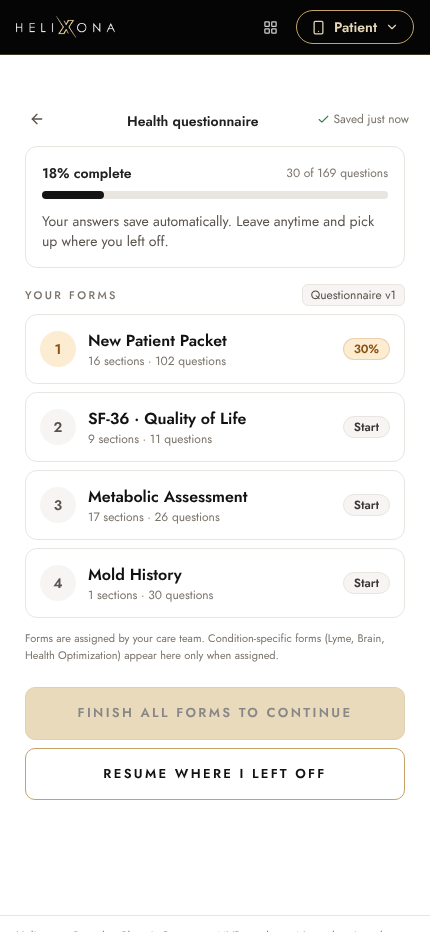
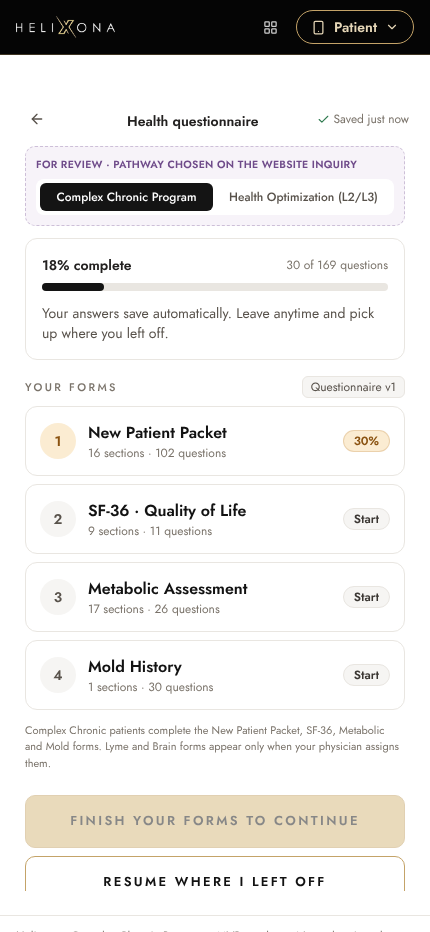
Two intake pathways: Complex Chronic and Health Optimization (L2/L3) with their own forms
Claude-Session: https://claude.ai/code/session_01XYaKrUbBD9snGiT4u57yqi

Changed region(s): [[0.0605, 0.1556, 0.9674, 0.9646], [0.1209, 0.6223, 0.1512, 0.6534]]

diff --git a/src/modules/intake/patient/Questionnaire.tsx b/src/modules/intake/patient/Questionnaire.tsx
@@ -3,7 +3,7 @@ import { Link, useNavigate } from 'react-router-dom'
 import { ArrowLeft, Check, Cloud, Plus, Trash2 } from 'lucide-react'
 import { PhoneFrame, PatientTopBar } from '../../../components/PhoneFrame'
 import { Choice, Field, Pill, VersionTag } from '../../../components/ui'
-import { assignedFormIds, forms, questionnaireMeta, sampleAnswers, type Form, type Q, type Sec } from '../../../mock/questionnaire'
+import { assignedByPathway, forms, getPathway, pathwayLabel, questionnaireMeta, sampleAnswers, setPathway, type Form, type Pathway, type Q, type Sec } from '../../../mock/questionnaire'
 
 type Answers = Record<string, unknown>
 
@@ -21,9 +21,12 @@ const visible = (sec: Sec, q: Q, a: Answers) => {
 
 export default function Questionnaire() {
   const nav = useNavigate()
-  const assigned = useMemo(() => assignedFormIds.map((id) => forms.find((f) => f.id === id)!), [])
+  const [pathway, setPathwayState] = useState<Pathway>(getPathway())
+  const assignment = assignedByPathway[pathway]
+  const assigned = useMemo(() => assignment.map((a) => forms.find((f) => f.id === a.formId)!), [assignment])
   const [view, setView] = useState<'forms' | 'sections' | 'section'>('forms')
   const [form, setForm] = useState<Form>(assigned[0])
+  const switchPathway = (p: Pathway) => { setPathway(p); setPathwayState(p); setForm(forms.find((f) => f.id === assignedByPathway[p][0].formId)!); setSIdx(0); setView('forms') }
   const [sIdx, setSIdx] = useState(0)
   const [answers, setAnswers] = useState<Answers>(() => ({ ...sampleAnswers }))
   const [saved, setSaved] = useState<'saved' | 'saving'>('saved')
@@ -33,15 +36,21 @@ export default function Questionnaire() {
   const set = (id: string, v: unknown) => setAnswers((a) => ({ ...a, [id]: v }))
   const secState = (s: Sec) => { const qs = s.questions.filter((q) => visible(s, q, answers)); const n = qs.filter((q) => answered(q, answers[q.id])).length; return n === 0 ? 'not started' : n === qs.length ? 'complete' : 'partial' }
   const formProgress = (f: Form) => { const qs = f.sections.flatMap((s) => s.questions.filter((q) => visible(s, q, answers))); return Math.round((qs.filter((q) => answered(q, answers[q.id])).length / qs.length) * 100) }
-  const total = assigned.flatMap((f) => f.sections.flatMap((s) => s.questions)).length
-  const done = assigned.flatMap((f) => f.sections.flatMap((s) => s.questions)).filter((q) => answered(q, answers[q.id])).length
+  const nowForms = assigned.filter((_, i) => !assignment[i].when)
+  const total = nowForms.flatMap((f) => f.sections.flatMap((s) => s.questions)).length
+  const done = nowForms.flatMap((f) => f.sections.flatMap((s) => s.questions)).filter((q) => answered(q, answers[q.id])).length
   const pct = Math.round((done / total) * 100)
+  const pctNow = pct
   const SaveState = <span className="inline-flex items-center gap-1 text-xs text-sand-500">{saved === 'saved' ? <><Check size={13} className="text-ok-600" /> Saved just now</> : <><Cloud size={13} className="animate-pulse" /> Saving…</>}</span>
 
   if (view === 'forms') return (
     <PhoneFrame>
       <PatientTopBar title="Health questionnaire" back={<Link to="/patient/home" className="btn-ghost px-2 py-1 text-sm"><ArrowLeft size={16} /></Link>} right={SaveState} />
       <div className="px-5 pb-8">
+        <div className="mb-3 rounded-xl border border-dashed border-plum-600/30 bg-plum-100/40 p-2.5">
+          <div className="text-[10.5px] font-semibold uppercase tracking-wide text-plum-600">For review · pathway chosen on the website inquiry</div>
+          <div className="mt-1.5 flex gap-1 rounded-lg bg-white p-1 text-xs font-medium">{(['chronic', 'optimization'] as Pathway[]).map((p) => <button key={p} onClick={() => switchPathway(p)} className={`flex-1 rounded-md py-1.5 ${pathway === p ? 'bg-teal-600 text-white' : 'text-sand-600'}`}>{pathwayLabel[p]}</button>)}</div>
+        </div>
         <div className="card p-4">
           <div className="flex items-center justify-between"><span className="text-sm font-semibold text-sand-800">{pct}% complete</span><span className="text-xs text-sand-500">{done} of {total} questions</span></div>
           <div className="mt-2 h-2 rounded-full bg-sand-200"><div className="h-2 rounded-full bg-teal-600 transition-all" style={{ width: `${pct}%` }} /></div>
@@ -49,16 +58,16 @@ export default function Questionnaire() {
         </div>
         <div className="mt-4 flex items-center justify-between"><span className="eyebrow">Your forms</span><VersionTag>Questionnaire v{questionnaireMeta.version}</VersionTag></div>
         <ul className="mt-2 space-y-2">
-          {assigned.map((f, i) => { const p = formProgress(f); return (
-            <li key={f.id}><button onClick={() => { setForm(f); setView('sections') }} className="card flex w-full items-center gap-3 p-3.5 text-left hover:border-teal-300">
+          {assigned.map((f, i) => { const p = formProgress(f); const later = assignment[i].when; return (
+            <li key={f.id}><button onClick={() => { setForm(f); setView('sections') }} className={`card flex w-full items-center gap-3 p-3.5 text-left hover:border-teal-300 ${later ? 'opacity-70' : ''}`}>
               <span className={`flex h-9 w-9 shrink-0 items-center justify-center rounded-full text-sm font-bold ${p === 100 ? 'bg-ok-100 text-ok-700' : p > 0 ? 'bg-warn-100 text-warn-700' : 'bg-sand-100 text-sand-600'}`}>{p === 100 ? <Check size={16} /> : i + 1}</span>
-              <span className="flex-1 min-w-0"><span className="block font-semibold text-sand-900">{f.short}</span><span className="block text-xs text-sand-500">{f.sections.length} sections · {f.sections.reduce((n, s) => n + s.questions.length, 0)} questions</span></span>
-              <Pill tone={p === 100 ? 'ok' : p > 0 ? 'warn' : 'neutral'} dot={false}>{p === 100 ? 'Done' : p > 0 ? `${p}%` : 'Start'}</Pill>
+              <span className="flex-1 min-w-0"><span className="block font-semibold text-sand-900">{f.short}</span><span className="block text-xs text-sand-500">{later ? later + ' · ' : ''}{f.sections.length} sections · {f.sections.reduce((n, s) => n + s.questions.length, 0)} questions</span></span>
+              <Pill tone={p === 100 ? 'ok' : p > 0 ? 'warn' : later ? 'neutral' : 'neutral'} dot={false}>{p === 100 ? 'Done' : p > 0 ? `${p}%` : later ? 'Later' : 'Start'}</Pill>
             </button></li>) })}
         </ul>
-        <p className="mt-3 text-[11px] text-sand-500">Forms are assigned by your care team. Condition-specific forms (Lyme, Brain, Health Optimization) appear here only when assigned.</p>
-        <button onClick={() => nav('/patient/uploads')} disabled={pct < 100} className="btn-primary btn-lg mt-6 w-full">{pct < 100 ? 'Finish all forms to continue' : 'Continue to documents'}</button>
-        {pct < 100 && <button onClick={() => { const f = assigned.find((x) => formProgress(x) < 100)!; setForm(f); setSIdx(Math.max(0, f.sections.findIndex((s) => secState(s) !== 'complete'))); setView('section') }} className="btn-secondary btn-lg mt-2 w-full">Resume where I left off</button>}
+        <p className="mt-3 text-[11px] text-sand-500">{pathway === 'chronic' ? 'Complex Chronic patients complete the New Patient Packet, SF-36, Metabolic and Mold forms. Lyme and Brain forms appear only when your physician assigns them.' : 'Health Optimization (L2/L3) patients complete the L2/L3 New Patient form before the first visit and the Follow-Up form before later visits.'}</p>
+        <button onClick={() => nav('/patient/uploads')} disabled={pctNow < 100} className="btn-primary btn-lg mt-6 w-full">{pctNow < 100 ? 'Finish your forms to continue' : 'Continue to documents'}</button>
+        {pctNow < 100 && <button onClick={() => { const f = assigned.find((x, i) => !assignment[i].when && formProgress(x) < 100)!; setForm(f); setSIdx(Math.max(0, f.sections.findIndex((s) => secState(s) !== 'complete'))); setView('section') }} className="btn-secondary btn-lg mt-2 w-full">Resume where I left off</button>}
       </div>
     </PhoneFrame>
   )

diff --git a/src/modules/intake/staff/InquiryList.tsx b/src/modules/intake/staff/InquiryList.tsx
@@ -15,7 +15,7 @@ export default function InquiryList() {
   const owners = ['All', ...new Set(inquiries.map((i) => i.owner))]
   const sources = ['All', 'Website · Typeform', 'Referral', 'Campaign']
   const active = Object.values(f).filter((v) => v !== 'All').length
-  const rows = inquiries.filter((i) => (tab === 'all' ? true : tab === 'cc' ? i.pathway === 'Complex Chronic' : i.pathway !== 'Complex Chronic'))
+  const rows = inquiries.filter((i) => (tab === 'all' ? true : tab === 'cc' ? i.pathway === 'Complex Chronic' : tab === 'ho' ? i.pathway === 'Health Optimization (L2/L3)' : i.pathway === 'Insurance-covered NP care'))
     .filter((i) => !q || `${i.name} ${i.id} ${i.reason} ${i.city}`.toLowerCase().includes(q.toLowerCase()))
     .filter((i) => f.status === 'All' || i.status === f.status)
     .filter((i) => f.owner === 'All' || i.owner === f.owner)
@@ -24,7 +24,7 @@ export default function InquiryList() {
   const columns: Column<Inquiry>[] = [
     { key: 'id', header: 'Inquiry', render: (r) => <><div className="font-medium text-sand-900">{r.id}</div><div className="text-xs text-sand-500">{r.receivedAt}</div></>, width: '150px' },
     { key: 'who', header: 'Name · location', render: (r) => <><div className="font-medium text-sand-900">{r.name}</div><div className="text-xs text-sand-500">{r.city}, {r.state}</div></> },
-    { key: 'pathway', header: 'Pathway', render: (r) => <Pill tone={r.pathway === 'Complex Chronic' ? 'teal' : 'neutral'} dot={false}>{r.pathway}</Pill> },
+    { key: 'pathway', header: 'Pathway', render: (r) => <Pill tone={r.pathway === 'Complex Chronic' ? 'teal' : r.pathway.startsWith('Health') ? 'info' : 'neutral'} dot={false}>{r.pathway}</Pill> },
     { key: 'source', header: 'Source', render: (r) => <span className="text-sand-600">{r.source}</span> },
     { key: 'reason', header: 'Reason for seeking care', render: (r) => <span className="text-sand-700">{r.reason}</span> },
     { key: 'status', header: 'Status', render: (r) => <Pill tone={toneFor(r.status)}>{r.status}</Pill> },
@@ -34,7 +34,7 @@ export default function InquiryList() {
 
   return (
     <>
-      <PageHeader eyebrow="Intake · Patient advisor" title="Inquiries" description="Website inquiries arrive from the Typeform with pathway, source, and submission details. Only the Complex Chronic pathway enters this program's workflow."
+      <PageHeader eyebrow="Intake · Patient advisor" title="Inquiries" description="Website inquiries arrive from the Typeform with the pathway the patient chose. Complex Chronic and Health Optimization (L2/L3) each get their own questionnaire package; NP care is routed to the front desk."
         actions={<><button onClick={() => setShowFilters((v) => !v)} className={`btn-secondary ${active ? 'bg-teal-50' : ''}`}><Filter size={16} /> Filters{active ? ` · ${active}` : ''}</button><button className="btn-primary" onClick={() => nav('/staff/patients/new')}>+ Add inquiry manually</button></>} />
       {showFilters && (
         <div className="card mb-5 flex flex-wrap items-end gap-4 p-4">
@@ -52,7 +52,7 @@ export default function InquiryList() {
         <Stat label="Accepted for Month 0 (30 d)" value={3} hint="2 intakes open" tone="ok" />
       </div>
       <div className="flex flex-wrap items-center justify-between gap-3">
-        <Tabs value={tab} onChange={setTab} tabs={[{ key: 'cc', label: 'Complex Chronic', count: inquiries.filter((i) => i.pathway === 'Complex Chronic').length }, { key: 'other', label: 'Other pathways', count: inquiries.filter((i) => i.pathway !== 'Complex Chronic').length }, { key: 'all', label: 'All' }]} />
+        <Tabs value={tab} onChange={setTab} tabs={[{ key: 'cc', label: 'Complex Chronic', count: inquiries.filter((i) => i.pathway === 'Complex Chronic').length }, { key: 'ho', label: 'Health Optimization (L2/L3)', count: inquiries.filter((i) => i.pathway === 'Health Optimization (L2/L3)').length }, { key: 'np', label: 'NP care', count: inquiries.filter((i) => i.pathway === 'Insurance-covered NP care').length }, { key: 'all', label: 'All' }]} />
         <label className="relative mb-4"><Search size={15} className="absolute left-3 top-1/2 -translate-y-1/2 text-sand-400" /><input value={q} onChange={(e) => setQ(e.target.value)} placeholder="Search name, ID, reason…" className="input w-72 pl-9 py-2" /></label>
       </div>
       <QueueTable rows={rows} columns={columns} rowKey={(r) => r.id} rowTone={(r) => (r.owner === 'Unassigned' ? 'bad' : toneFor(r.status))}

diff --git a/src/mock/inquiries.ts b/src/mock/inquiries.ts
@@ -2,10 +2,11 @@ import type { Inquiry } from './types'
 
 export const inquiries: Inquiry[] = [
   { id: 'INQ-2210', receivedAt: 'Oct 7, 2026 · 7:52 AM', pathway: 'Complex Chronic', source: 'Website · Typeform', name: 'Hannah Bergström', city: 'Mission Viejo', state: 'CA', reason: 'Long COVID, fatigue, POTS symptoms', status: 'Inquiry received', owner: 'Unassigned', nextAction: 'Assign owner · first outreach' },
+  { id: 'INQ-2207', receivedAt: 'Oct 6, 2026 · 5:02 PM', pathway: 'Health Optimization (L2/L3)', source: 'Website · Typeform · Instagram', name: 'Jordan Blake', city: 'Newport Beach', state: 'CA', reason: 'Wellness, vitality, Erchonia laser', status: 'Inquiry received', owner: 'Unassigned', nextAction: 'Assign owner · first outreach' },
   { id: 'INQ-2209', receivedAt: 'Oct 6, 2026 · 9:14 PM', pathway: 'Insurance-covered NP care', source: 'Website · Typeform', name: 'Carlos Medina', city: 'Santa Ana', state: 'CA', reason: 'Annual physical, thyroid follow-up', status: 'Inquiry received', owner: 'Front desk', nextAction: 'Route to NP scheduling (outside this program)' },
   { id: 'INQ-2208', receivedAt: 'Oct 6, 2026 · 3:40 PM', pathway: 'Complex Chronic', source: 'Website · Typeform · Google Ads', name: 'Robert Nguyen', city: 'Irvine', state: 'CA', reason: 'Rheumatoid arthritis, chronic pain, sleep', status: 'Advisor interview completed', owner: 'Ana', patientId: 'P-0046', nextAction: 'Karina · insurance benefits review' },
   { id: 'INQ-2205', receivedAt: 'Oct 4, 2026 · 10:02 AM', pathway: 'Complex Chronic', source: 'Referral · Dr. Patel', name: 'Grace Lindqvist', city: 'Laguna Beach', state: 'CA', reason: 'Lyme, mold exposure, brain fog', status: 'Advisor outreach', owner: 'Ana', nextAction: '2nd call attempt · Oct 8' },
-  { id: 'INQ-2203', receivedAt: 'Oct 3, 2026 · 6:25 PM', pathway: 'Self-directed care', source: 'Website · Typeform', name: 'Mei Tanaka', city: 'Irvine', state: 'CA', reason: 'Red light therapy package', status: 'Inquiry received', owner: 'Front desk', nextAction: 'Route to services (outside this program)' },
+  { id: 'INQ-2203', receivedAt: 'Oct 3, 2026 · 6:25 PM', pathway: 'Health Optimization (L2/L3)', source: 'Website · Typeform', name: 'Mei Tanaka', city: 'Irvine', state: 'CA', reason: 'Energy, longevity, IV therapy and EBOO', status: 'Advisor outreach', owner: 'Ana', nextAction: 'Create patient · send L2/L3 questionnaire' },
   { id: 'INQ-2199', receivedAt: 'Sep 30, 2026 · 8:11 AM', pathway: 'Complex Chronic', source: 'Website · Typeform', name: 'Thomas Whitfield', city: 'Laguna Hills', state: 'CA', reason: 'Heart failure (stable), diabetes, neuropathy', status: 'Accepted for Month 0', owner: 'Ana', patientId: 'P-0045', nextAction: 'Intake in progress · 38%' },
   { id: 'INQ-2194', receivedAt: 'Sep 27, 2026 · 2:48 PM', pathway: 'Complex Chronic', source: 'Website · Typeform · Instagram', name: 'Samuel Ortiz', city: 'Anaheim', state: 'CA', reason: 'Chronic fatigue, GI issues', status: 'Patient fell off', owner: 'Ana', nextAction: 'Closed · reminders stopped after 3 attempts' },
   { id: 'INQ-2190', receivedAt: 'Sep 21, 2026 · 11:36 AM', pathway: 'Complex Chronic', source: 'Website · Typeform', name: 'Marisol Andrade', city: 'Irvine', state: 'CA', reason: 'Fibromyalgia, migraines, fatigue', status: 'Accepted for Month 0', owner: 'Ana', patientId: 'P-0043', nextAction: 'Intake review · 1 item returned' },

diff --git a/src/modules/intake/staff/CreatePatient.tsx b/src/modules/intake/staff/CreatePatient.tsx
@@ -64,8 +64,8 @@ export default function CreatePatient() {
                   <label className={`flex flex-1 items-center gap-2 rounded-xl border px-3 py-2.5 text-sm ${form.channels.sms ? 'border-teal-500 bg-teal-50' : 'border-sand-300'}`}><input type="checkbox" className="accent-teal-600" checked={form.channels.sms} onChange={(e) => set('channels', { ...form.channels, sms: e.target.checked })} /><MessageSquareText size={15} /> Text</label>
                 </div>
               </Field>
-              <Field label="Assigned package" hint="Set by the program configuration; shown for transparency.">
-                <div className="flex flex-wrap gap-1.5 pt-1"><Pill tone="teal" dot={false}>New Patient Packet v1</Pill><Pill tone="teal" dot={false}>SF-36 · Metabolic · Mold</Pill><Pill tone="teal" dot={false}>Document uploads</Pill><Pill tone="teal" dot={false}>5 forms</Pill></div>
+              <Field label="Assigned package" hint={`Follows the pathway chosen on the website: ${inquiry?.pathway ?? "Complex Chronic"}.`}>
+                <div className="flex flex-wrap gap-1.5 pt-1">{inquiry?.pathway.startsWith('Health') ? <><Pill tone="info" dot={false}>L2/L3 New Patient v1</Pill><Pill tone="info" dot={false}>L2/L3 Follow-Up (later visits)</Pill></> : <><Pill tone="teal" dot={false}>New Patient Packet v1</Pill><Pill tone="teal" dot={false}>SF-36 · Metabolic · Mold</Pill></>}<Pill tone="teal" dot={false}>Document uploads</Pill><Pill tone="teal" dot={false}>5 forms</Pill></div>
               </Field>
             </div>
           </Card>

diff --git a/src/mock/questionnaire.ts b/src/mock/questionnaire.ts
@@ -12,8 +12,16 @@ export const questionnaireMeta = {
   source: 'NP - Questionnaires 2.xlsx',
 }
 
-/** Forms assigned to the demo patient (Complex Chronic). Condition-specific forms are assigned by the physician. */
-export const assignedFormIds = ['new-patient', 'sf36', 'metabolic', 'mold']
+export type Pathway = 'chronic' | 'optimization'
+export const pathwayLabel: Record<Pathway, string> = { chronic: 'Complex Chronic Program', optimization: 'Health Optimization (L2/L3)' }
+/** Forms assigned by pathway. Condition-specific forms (Lyme, Brain) are added by the physician. */
+export const assignedByPathway: Record<Pathway, { formId: string; when?: string }[]> = {
+  chronic: [{ formId: 'new-patient' }, { formId: 'sf36' }, { formId: 'metabolic' }, { formId: 'mold' }],
+  optimization: [{ formId: 'l2l3-new' }, { formId: 'l2l3-fu', when: 'After your first visit' }],
+}
+export const getPathway = (): Pathway => { try { return (localStorage.getItem('hlx-pathway') as Pathway) || 'chronic' } catch { return 'chronic' } }
+export const setPathway = (p: Pathway) => { try { localStorage.setItem('hlx-pathway', p) } catch { /* ignore */ } }
+export const assignedFormIds = assignedByPathway.chronic.map((a) => a.formId)
 
 export const sections = forms[0].sections
 

diff --git a/src/modules/intake/patient/PatientHome.tsx b/src/modules/intake/patient/PatientHome.tsx
@@ -2,6 +2,7 @@ import { Link } from 'react-router-dom'
 import { Calendar, ClipboardList, CreditCard, FileCheck2, HeartPulse } from 'lucide-react'
 import { PhoneFrame, Wordmark } from '../../../components/PhoneFrame'
 import { MonitoringNotice, Pill } from '../../../components/ui'
+import { getPathway, pathwayLabel } from '../../../mock/questionnaire'
 
 export default function PatientHome() {
   return (
@@ -9,7 +10,7 @@ export default function PatientHome() {
       <div className="px-5 pt-12 pb-8">
         <div className="flex items-center justify-between"><Wordmark size="sm" /><span className="text-xs text-sand-500">Marisol A.</span></div>
         <h1 className="mt-6 font-display text-[26px] font-semibold text-sand-900">Good evening, Marisol</h1>
-        <p className="text-sand-600">You're in <strong>Month 0 — Assessment</strong>.</p>
+        <p className="text-sand-600">{getPathway() === 'chronic' ? <>You're in <strong>Month 0 — Assessment</strong>.</> : <>Your pathway: <strong>{pathwayLabel.optimization}</strong>. First visit not yet scheduled.</>}</p>
 
         <div className="card mt-5 overflow-hidden">
           <div className="bg-teal-800 px-4 py-3 text-white">

diff --git a/src/mock/types.ts b/src/mock/types.ts
@@ -60,7 +60,7 @@ export interface FormItem {
 export interface Inquiry {
   id: string
   receivedAt: string
-  pathway: 'Complex Chronic' | 'Insurance-covered NP care' | 'Self-directed care'
+  pathway: 'Complex Chronic' | 'Health Optimization (L2/L3)' | 'Insurance-covered NP care'
   source: string
   name: string
   city: string

diff --git a/screens.md b/screens.md
@@ -12,7 +12,7 @@ All data is fictional. The intake questionnaire is the Medical Director's conten
 | # | Route | Purpose | Open questions |
 |---|---|---|---|
 | 1 | `#/patient/invite` | “You’ve been invited by Helixona” landing. Verify by secure email link **or** texted 6-digit code (both shown), then a “what we’ll do together” checklist. | Final sign-in method (Carlos). Whether the patient should see the advisor's name. |
-| 2 | `#/patient/intake` | Assigned forms → sections → questions, with progress, “Saved just now”, resume. Supports every type in the spreadsheet: short/long text, single/multi choice, yes/no, date, number, 1–10 scale, numbered lists, treatment list with 1–10 helpfulness, medication/supplement tables, symptom matrices (Never/Often/Frequently/Always, SF-36 scales, Lyme 0–4) with automatic category totals, digital signature. | Which forms are assigned by default to Complex Chronic; clinical publish by Dr. D. |
+| 2 | `#/patient/intake` | Forms follow the pathway chosen on the website inquiry: **Complex Chronic** gets New Patient Packet, SF-36, Metabolic, Mold (Lyme and Brain when the physician assigns them); **Health Optimization (L2/L3)** gets the L2/L3 New Patient form, then the L2/L3 Follow-Up form for later visits. A review-only switch at the top flips between the two. Assigned forms → sections → questions, with progress, “Saved just now”, resume. Supports every type in the spreadsheet: short/long text, single/multi choice, yes/no, date, number, 1–10 scale, numbered lists, treatment list with 1–10 helpfulness, medication/supplement tables, symptom matrices (Never/Often/Frequently/Always, SF-36 scales, Lyme 0–4) with automatic category totals, digital signature. | Which forms are assigned by default to Complex Chronic; clinical publish by Dr. D. |
 | 3 | `#/patient/uploads` | Required and optional document slots; take photo / choose file; inventory; **returned item** flow (advisor asks for a new copy). | Max file size and accepted types. Whether insurance card is already collected by the advisor. |
 | 4 | `#/patient/forms` | Assigned documents with version and signer; open → must scroll to end → agree → typed **or** drawn signature → timestamped. Patient gets a copy by email. | Final form list, versions, and who signs (Shibani). Which forms need staff countersign. |
 | 5 | `#/patient/submitted` | Confirmation + “what happens next” (advisor review → chart prep → Month 0 scheduling + fee). | Exact wording about Month 0 fee timing. |

diff --git a/docs/decisions.md b/docs/decisions.md
@@ -10,3 +10,4 @@
 | 2026-10-07 | Brand tokens follow CLAUDE.md §6 (deep teal, warm neutrals, Source Sans 3 + Fraunces) pending the official Helixona palette | — | helixona.com was not reachable from the build environment; tokens live in one place (`src/index.css`) for a quick swap |
 | 2026-10-08 | All Priority 1–3 mockups built in one pass (client asked not to wait for Priority 1 review) | CLAUDE.md §4 sequencing for mockups | Client request; the real build still ships by module, intake first |
 | 2026-10-22 | Medical Director's questionnaire (New Patient Packet, SF-36, Mold, Metabolic, Lyme, Brain, L2/L3 Health Optimization new + follow-up) implemented exactly as supplied from the spreadsheet; L2/L3 read as the Health Optimization questionnaire per client | Placeholder questions | Content received; generator script keeps wording and order identical to the source |
+| 2026-10-22 | Two intake pathways from the website: Complex Chronic (New Patient Packet + SF-36 + Metabolic + Mold) and Health Optimization = L2/L3 (New Patient, then Follow-Up); NP care routes to the front desk | Requirements §3 'self-directed care' | Client clarification |
